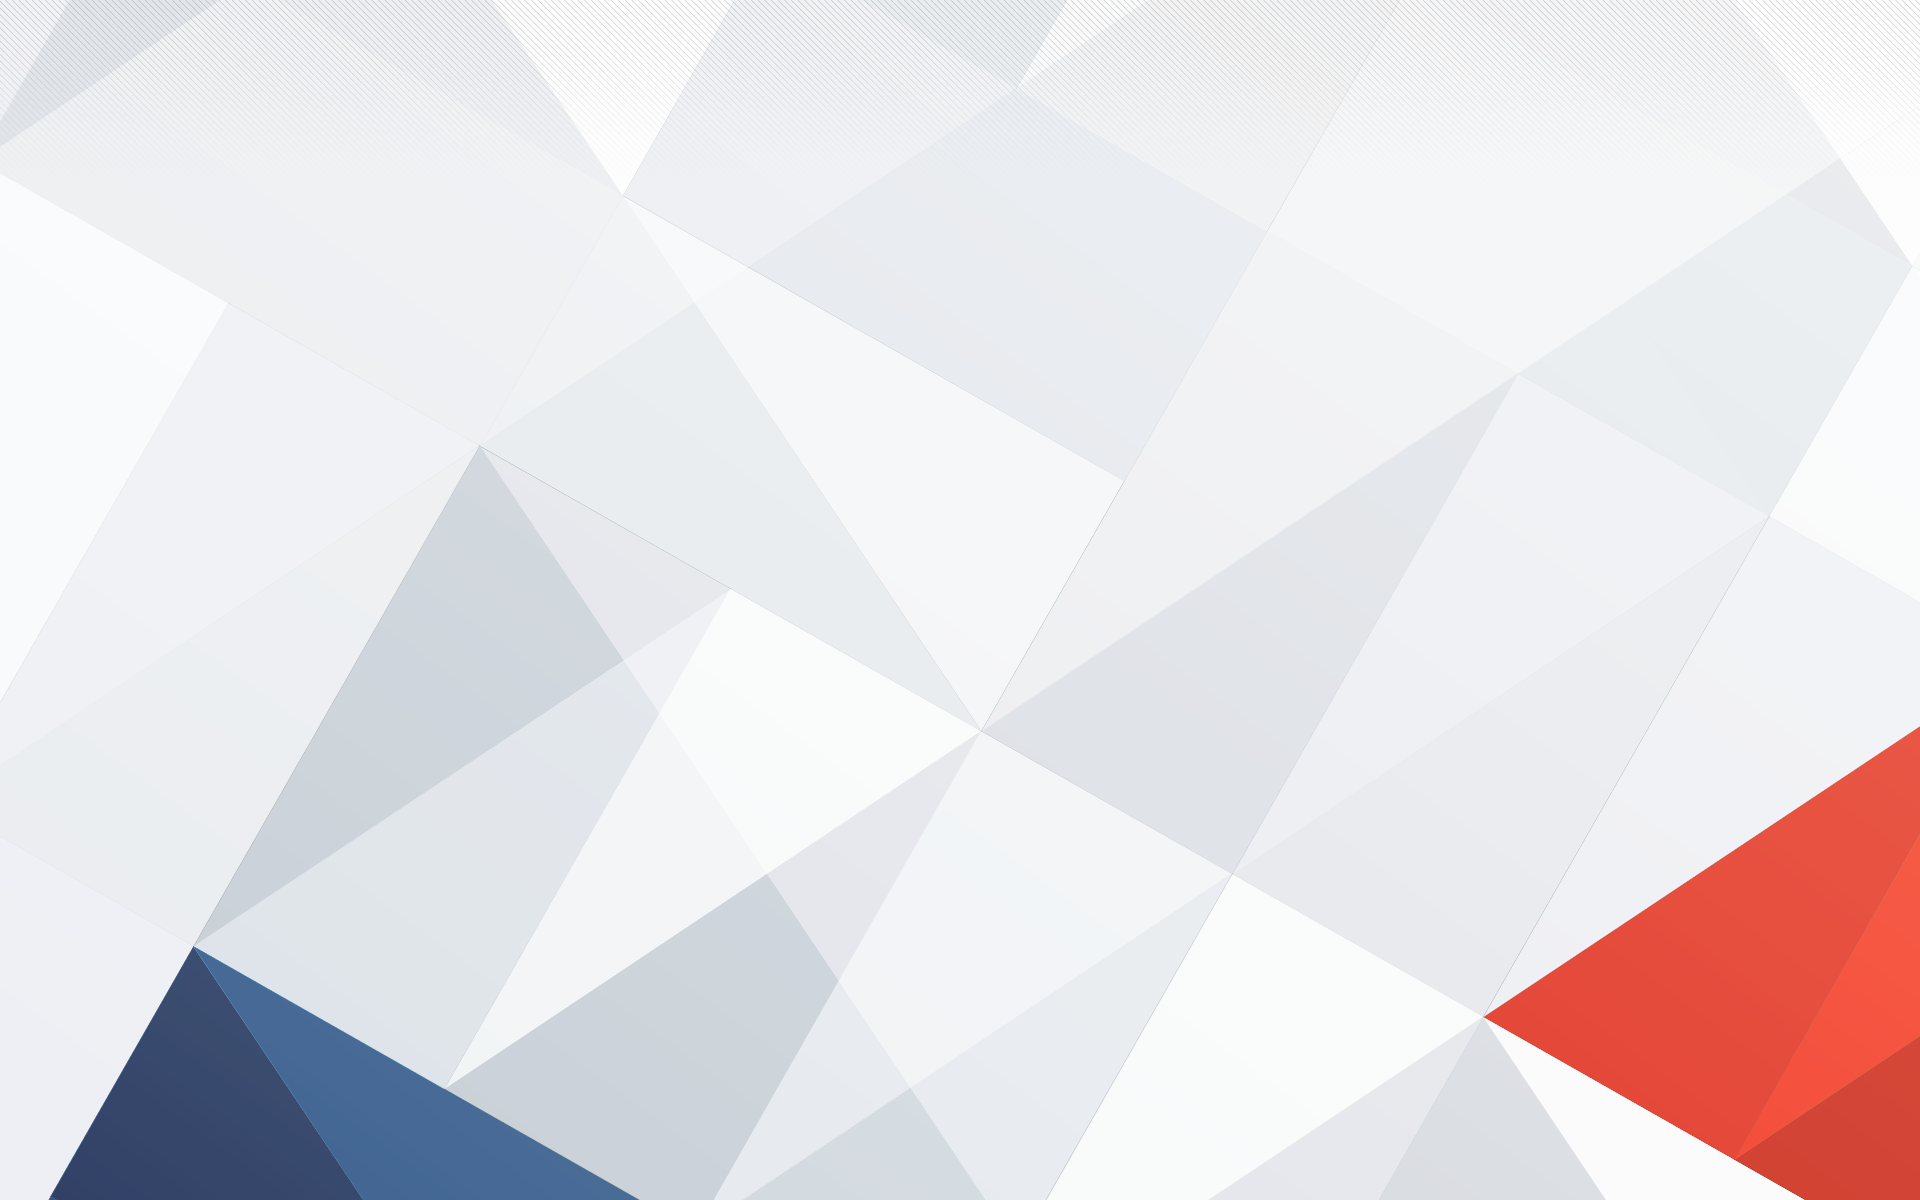
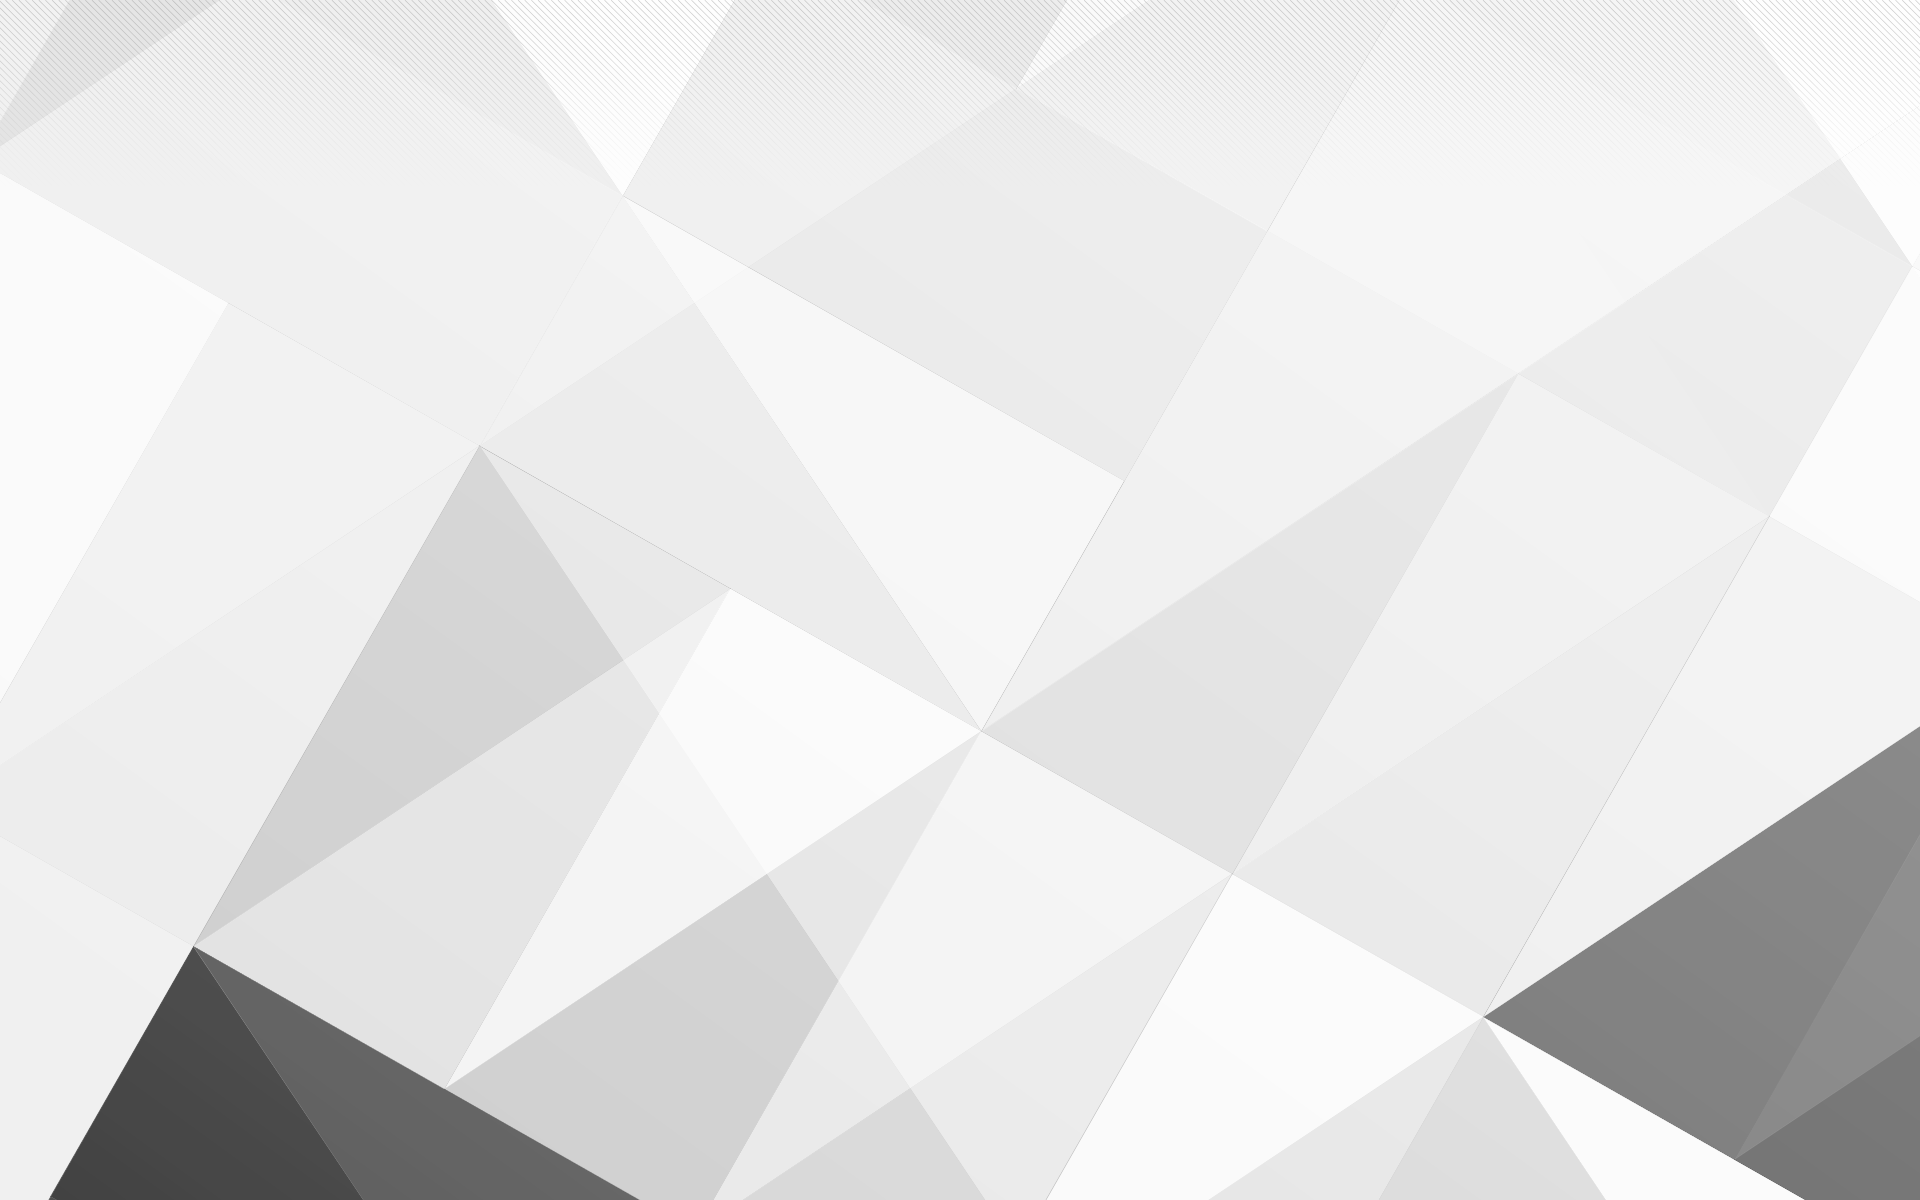
add internationalisation
omg + black and white

Changed region(s): [[0.7812, 0.6167, 1.0, 1.0], [0.0, 0.7708, 0.3438, 1.0]]

diff --git a/index.html b/index.html
@@ -163,8 +163,8 @@
                     <li class="fragment fade-in">Leur rôle
                       <ul>
                         <li>Encapsulation</li>
-                        <li>Injection de dépendence</li>
                         <li>Création d'objets</li>
+                        <li>Injection de dépendence</li>
                       </ul>
                     </li>
                     <li class="fragment fade-in">Les Différences
@@ -186,8 +186,8 @@
                   <li>Exemples de directives natives :
                     <i style="font-size:30px;">
                       <ul>
-                        <li>ngController;</li>
-                        <li>ngRepeat;</li>
+                        <li>ngController</li>
+                        <li>ngRepeat</li>
                         <li>ngModel</li>
                         <li>...</li>
                       </ul>
@@ -241,8 +241,8 @@
             </section>
             <!-- [2 MIN] TO-->
             <section>
-              <h2>Service Direction</h2>
-              <img src="img/Riviera/DirectionService_GMap.PNG" alt="">
+              <h2>Internationalisation</h2>
+              <img src="img/Riviera/Directive_internationalisation.PNG" alt="">
             </section>
                 <!--
                 Présentation du projet
